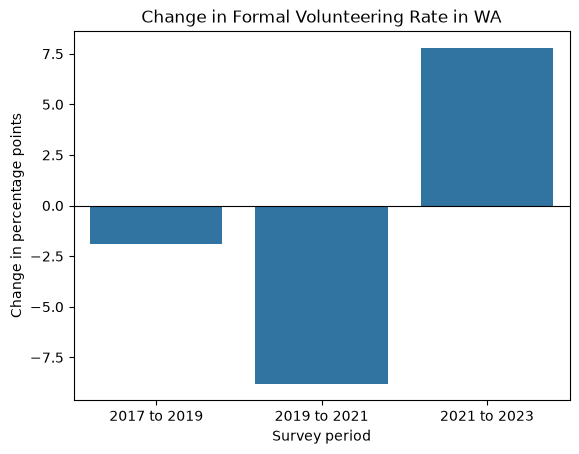
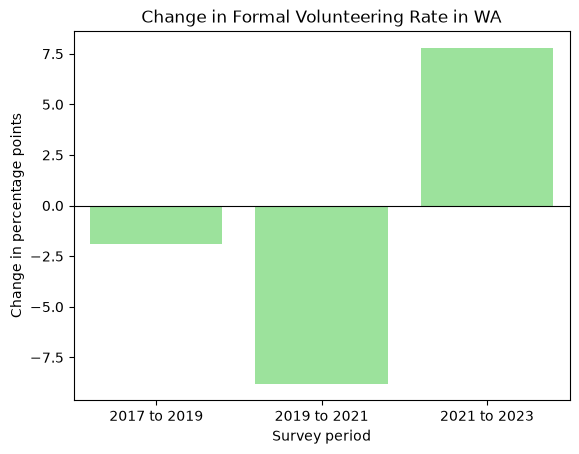
all files

Changed region(s): [[0.4352, 0.4317, 0.6839, 0.8634], [0.715, 0.0925, 0.9637, 0.4626], [0.1554, 0.4317, 0.4041, 0.5551]]

diff --git a/plots/cev_atus_eda.py b/plots/cev_atus_eda.py
@@ -1,9 +1,21 @@
+"""
+Dante Johnson
+CSE 163
+Section AE
+
+These are the exploratory data analysis functions used
+for analyzing CEV and ATUS data. The functions load the 
+data, clean it, and create visualizations to explore the data.
+"""
+
+
 import pandas as pd
 import matplotlib.pyplot as plt
 import seaborn as sns
 
 CEV_PATH = 'data/cev_state_level_summary.csv'
-ATUS_PATH = 'data/american_time_use_survey.csv'
+ACTIVITY_PATH = 'data/atusact_2025.dat'
+RESPONDENT_PATH = 'data/atusresp_2025.dat'
 
 
 def load_data(path: str) -> pd.DataFrame:
@@ -23,7 +35,6 @@ def clean_cev(df: pd.DataFrame) -> pd.DataFrame:
     """
     cev_cleaned = df.loc[:, ['State']]
 
-    # 2017-2021 rates are strings like '33.8%'
     rates = df['State 2017 Formal Volunteering Rate']
     cev_cleaned['2017'] = rates.str.strip('%').astype('float')
     rates = df['State 2019 Formal Volunteering Rate']
@@ -31,38 +42,60 @@ def clean_cev(df: pd.DataFrame) -> pd.DataFrame:
     rates = df['State 2021 Formal Volunteering Rate']
     cev_cleaned['2021'] = rates.str.strip('%').astype('float')
 
-    # 2023 rates are proportions like 0.328
     rates = df['State 2023 Formal Volunteering Rate']
     cev_cleaned['2023'] = rates * 100
 
     return cev_cleaned
 
 
-def clean_atus(df: pd.DataFrame) -> pd.DataFrame:
+def clean_volunteering(activities: pd.DataFrame,
+                       respondents: pd.DataFrame) -> pd.DataFrame:
     """
-    Takes the full ATUS dataset and returns a new DataFrame with an
-    Activity column and the average minutes per weekday and per weekend
-    day that men and women spend on each activity.
+    Takes the ATUS activity and respondent files and returns one row per
+    person who volunteered, holding their first volunteering activity of
+    the diary day with its start hour, time period (Morning, Noon, or
+    Night), the person's employment group (Employed or Not employed),
+    and the activity's weighted percentage within that group.
     """
-    atus_cleaned = df.loc[:, ['Activity']]
+    people = respondents.loc[:, ['TUCASEID', 'TUFINLWGT', 'TELFS']]
+    merged = activities.merge(people, left_on='TUCASEID',
+                              right_on='TUCASEID')
 
-    # the dataset gives hours per day; 60 minutes in an hour
-    atus_cleaned['men weekday'] = df['Average per weekday, men'] * 60
-    atus_cleaned['women weekday'] = df['Average per weekday, women'] * 60
-    atus_cleaned['men weekend'] = df['Average per weekend day, men'] * 60
-    atus_cleaned['women weekend'] = df['Average per weekend day, women'] * 60
+    volunteering = merged[merged['TUTIER1CODE'] == 15]
 
-    return atus_cleaned
+    volunteering = volunteering.drop_duplicates('TUCASEID')
+
+    start_minutes = volunteering['TUCUMDUR24'] - volunteering['TUACTDUR24']
+    volunteering['start_hour'] = (4 + start_minutes // 60) % 24
+
+    hour = volunteering['start_hour']
+    is_morning = (hour >= 5) & (hour <= 13)
+    is_noon = (hour >= 14) & (hour <= 18)
+    volunteering['period'] = 'Night'
+    volunteering.loc[is_morning, 'period'] = 'Morning'
+    volunteering.loc[is_noon, 'period'] = 'Noon'
+
+    is_employed = volunteering['TELFS'] <= 2
+    volunteering['group'] = 'Not employed'
+    volunteering.loc[is_employed, 'group'] = 'Employed'
+
+    weights = volunteering['TUFINLWGT']
+    employed_total = weights[is_employed].sum()
+    not_employed_total = weights[~is_employed].sum()
+    volunteering['percent'] = weights / not_employed_total * 100
+    volunteering.loc[is_employed, 'percent'] = (
+        weights[is_employed] / employed_total * 100)
+    return volunteering
 
 
 def plot_state_trend(df: pd.DataFrame, state: str) -> None:
     """
-    Saves a bar chart of the given state's formal volunteering rate in
+    Saves a bar graph of the given state's formal volunteering rate in
     each survey year to plots/cev_state_trend.png.
     """
     one_state = df[df['State'] == state]
     rates = one_state.loc[:, ['2017', '2019', '2021', '2023']]
-    sns.barplot(data=rates, color='tab:blue')
+    sns.barplot(data=rates, color='skyblue')
     plt.title('Formal Volunteering Rate in ' + state)
     plt.xlabel('Survey year')
     plt.ylabel('Formal volunteering rate (%)')
@@ -72,7 +105,7 @@ def plot_state_trend(df: pd.DataFrame, state: str) -> None:
 
 def plot_state_change(df: pd.DataFrame, state: str) -> None:
     """
-    Saves a bar chart of how much the given state's formal volunteering
+    Saves a bar graph of how much the given state's formal volunteering
     rate changed between each pair of survey years to
     plots/cev_state_change.png.
     """
@@ -82,7 +115,7 @@ def plot_state_change(df: pd.DataFrame, state: str) -> None:
     one_state['2021 to 2023'] = one_state['2023'] - one_state['2021']
     changes = one_state.loc[:, ['2017 to 2019', '2019 to 2021',
                                 '2021 to 2023']]
-    sns.barplot(data=changes, color='tab:blue')
+    sns.barplot(data=changes, color='lightgreen')
     plt.axhline(0, color='black', linewidth=0.8)
     plt.title('Change in Formal Volunteering Rate in ' + state)
     plt.xlabel('Survey period')
@@ -91,45 +124,45 @@ def plot_state_change(df: pd.DataFrame, state: str) -> None:
     plt.close()
 
 
-def plot_weekday_volunteering(df: pd.DataFrame, activity: str) -> None:
+def plot_volunteering_by_period(volunteering: pd.DataFrame) -> None:
     """
-    Saves a bar chart of average weekday minutes that men and women
-    spend in the given activity category to
-    plots/atus_weekday_volunteering.png.
+    Saves a bar graph comparing the percentage of employed and not
+    employed volunteers whose volunteering started in the morning,
+    noon, or night to plots/atus_volunteering_by_period.png.
     """
-    one_activity = df[df['Activity'] == activity]
-    minutes = one_activity.loc[:, ['men weekday', 'women weekday']]
-    sns.barplot(data=minutes)
-    plt.title('Weekday Time in Organizational, Civic,\n'
-              'and Religious Activities (ATUS 2025)')
-    plt.xlabel('Group')
-    plt.ylabel('Average minutes per weekday')
-    plt.savefig('plots/atus_weekday_volunteering.png',
+    sns.barplot(data=volunteering, x='period', y='percent', hue='group',
+                estimator='sum', errorbar=None,
+                order=['Morning', 'Noon', 'Night'])
+    plt.title('When Volunteering Starts, by Employment')
+    plt.xticks(range(3), ['5am-1pm', '2pm-6pm', '7pm-12am'])
+    plt.xlabel('Start time')
+    plt.ylabel('Volunteers in group (%)')
+    plt.legend(title='Group')
+    plt.savefig('plots/atus_volunteering_by_period.png',
                 bbox_inches='tight')
     plt.close()
 
 
-def plot_weekday_vs_weekend(df: pd.DataFrame, activity: str) -> None:
+def plot_volunteering_overall(volunteering: pd.DataFrame) -> None:
     """
-    Saves a bar chart comparing average weekday and weekend minutes that
-    men and women spend in the given activity category to
-    plots/atus_weekday_vs_weekend.png.
+    Saves a histogram of the weighted percentage of all volunteers whose
+    volunteering started in each hour of the day to
+    plots/atus_volunteering_overall.png.
     """
-    one_activity = df[df['Activity'] == activity]
-    minutes = one_activity.loc[:, ['men weekday', 'women weekday',
-                                   'men weekend', 'women weekend']]
-    sns.barplot(data=minutes, color='tab:blue')
-    plt.title('Weekday vs. Weekend Time in Organizational, Civic,\n'
-              'and Religious Activities (ATUS 2025)')
-    plt.xlabel('Group and day type')
-    plt.ylabel('Average minutes per day')
-    plt.savefig('plots/atus_weekday_vs_weekend.png', bbox_inches='tight')
+    sns.histplot(data=volunteering, x='start_hour', weights='TUFINLWGT',
+                 stat='percent', discrete=True)
+    plt.xticks(range(0, 24, 2), ['12am', '2am', '4am', '6am', '8am',
+                                 '10am', '12pm', '2pm', '4pm', '6pm',
+                                 '8pm', '10pm'])
+    plt.xlim(-0.5, 23.5)
+    plt.title('When Volunteering Starts, All Volunteers')
+    plt.xlabel('Start time')
+    plt.ylabel('Volunteers (%)')
+    plt.savefig('plots/atus_volunteering_overall.png', bbox_inches='tight')
     plt.close()
 
 
 def main():
-    atus_activity = 'Organizational, civic, and religious activities'
-
     cev_raw = load_data(CEV_PATH)
     # every column's Non-Null Count matches the number of rows, so no
     # data is missing
@@ -138,11 +171,14 @@ def main():
     plot_state_trend(cev, 'WA')
     plot_state_change(cev, 'WA')
 
-    atus_raw = load_data(ATUS_PATH)
-    atus_raw.info()
-    atus = clean_atus(atus_raw)
-    plot_weekday_volunteering(atus, atus_activity)
-    plot_weekday_vs_weekend(atus, atus_activity)
+    activities = load_data(ACTIVITY_PATH)
+    respondents = load_data(RESPONDENT_PATH)
+    activities.loc[:, ['TUCASEID', 'TUTIER1CODE', 'TUCUMDUR24',
+                       'TUACTDUR24']].info()
+    respondents.loc[:, ['TUCASEID', 'TUFINLWGT', 'TELFS']].info()
+    volunteering = clean_volunteering(activities, respondents)
+    plot_volunteering_by_period(volunteering)
+    plot_volunteering_overall(volunteering)
 
 
 if __name__ == '__main__':

diff --git a/plots/test_cev_atus_eda.py b/plots/test_cev_atus_eda.py
@@ -1,0 +1,105 @@
+"""
+Dante Johnson
+CSE 163
+Section AE
+
+Tests the data cleaning and plotting functions in 
+cev_atus_eda.py with assert statements. 
+"""
+from cev_atus_eda import (load_data, clean_cev, clean_volunteering,
+                          plot_state_trend, plot_state_change,
+                          plot_volunteering_by_period,
+                          plot_volunteering_overall)
+
+
+def test_clean_cev() -> None:
+    """
+    Checks that clean_cev keeps State and the four years and turns both
+    rate formats ('35.7%' and 0.328) into percentages.
+    """
+    cev = clean_cev(load_data('data/small_cev.csv'))
+    assert cev.shape == (3, 5)
+    assert cev.columns[0] == 'State'
+    assert cev.loc[0, '2017'] == 35.7
+    assert round(cev.loc[0, '2023'], 1) == 32.8
+
+
+def test_clean_volunteering() -> None:
+    """
+    Checks that clean_volunteering keeps one row per volunteer and gives
+    the right start hour, group, and percentages.
+    """
+    activities = load_data('data/small_atus_act.csv')
+    respondents = load_data('data/small_atus_resp.csv')
+    vol = clean_volunteering(activities, respondents)
+    assert len(vol) == 6
+    assert vol[vol['TUCASEID'] == 1]['start_hour'].max() == 7
+    assert vol[vol['TUCASEID'] == 2]['group'].max() == 'Employed'
+    assert vol[vol['group'] == 'Employed']['percent'].sum() == 100
+
+
+def test_plot_state_trend() -> None:
+    """
+    Checks that plot_state_trend runs and does not change the data.
+    """
+    cev = clean_cev(load_data('data/small_cev.csv'))
+    assert plot_state_trend(cev, 'WA') is None
+    assert cev.shape == (3, 5)
+    assert cev.loc[0, 'State'] == 'WA'
+    assert cev.loc[0, '2017'] == 35.7
+
+
+def test_plot_state_change() -> None:
+    """
+    Checks that plot_state_change runs and does not add its change
+    columns to the data.
+    """
+    cev = clean_cev(load_data('data/small_cev.csv'))
+    assert plot_state_change(cev, 'WA') is None
+    assert cev.shape == (3, 5)
+    assert '2019 to 2021' not in cev.columns
+    assert cev.loc[0, '2021'] == 25.0
+
+
+def test_plot_volunteering_by_period() -> None:
+    """
+    Checks that plot_volunteering_by_period runs and does not change the
+    data.
+    """
+    activities = load_data('data/small_atus_act.csv')
+    respondents = load_data('data/small_atus_resp.csv')
+    vol = clean_volunteering(activities, respondents)
+    shape = vol.shape
+    assert plot_volunteering_by_period(vol) is None
+    assert vol.shape == shape
+    assert vol['percent'].sum() == 200
+    assert vol[vol['TUCASEID'] == 1]['period'].max() == 'Morning'
+
+
+def test_plot_volunteering_overall() -> None:
+    """
+    Checks that plot_volunteering_overall runs and does not change the
+    data.
+    """
+    activities = load_data('data/small_atus_act.csv')
+    respondents = load_data('data/small_atus_resp.csv')
+    vol = clean_volunteering(activities, respondents)
+    shape = vol.shape
+    assert plot_volunteering_overall(vol) is None
+    assert vol.shape == shape
+    assert vol['start_hour'].min() == 0
+    assert vol['start_hour'].max() == 19
+
+
+def main():
+    test_clean_cev()
+    test_clean_volunteering()
+    test_plot_state_trend()
+    test_plot_state_change()
+    test_plot_volunteering_by_period()
+    test_plot_volunteering_overall()
+    print('All tests passed')
+
+
+if __name__ == '__main__':
+    main()
